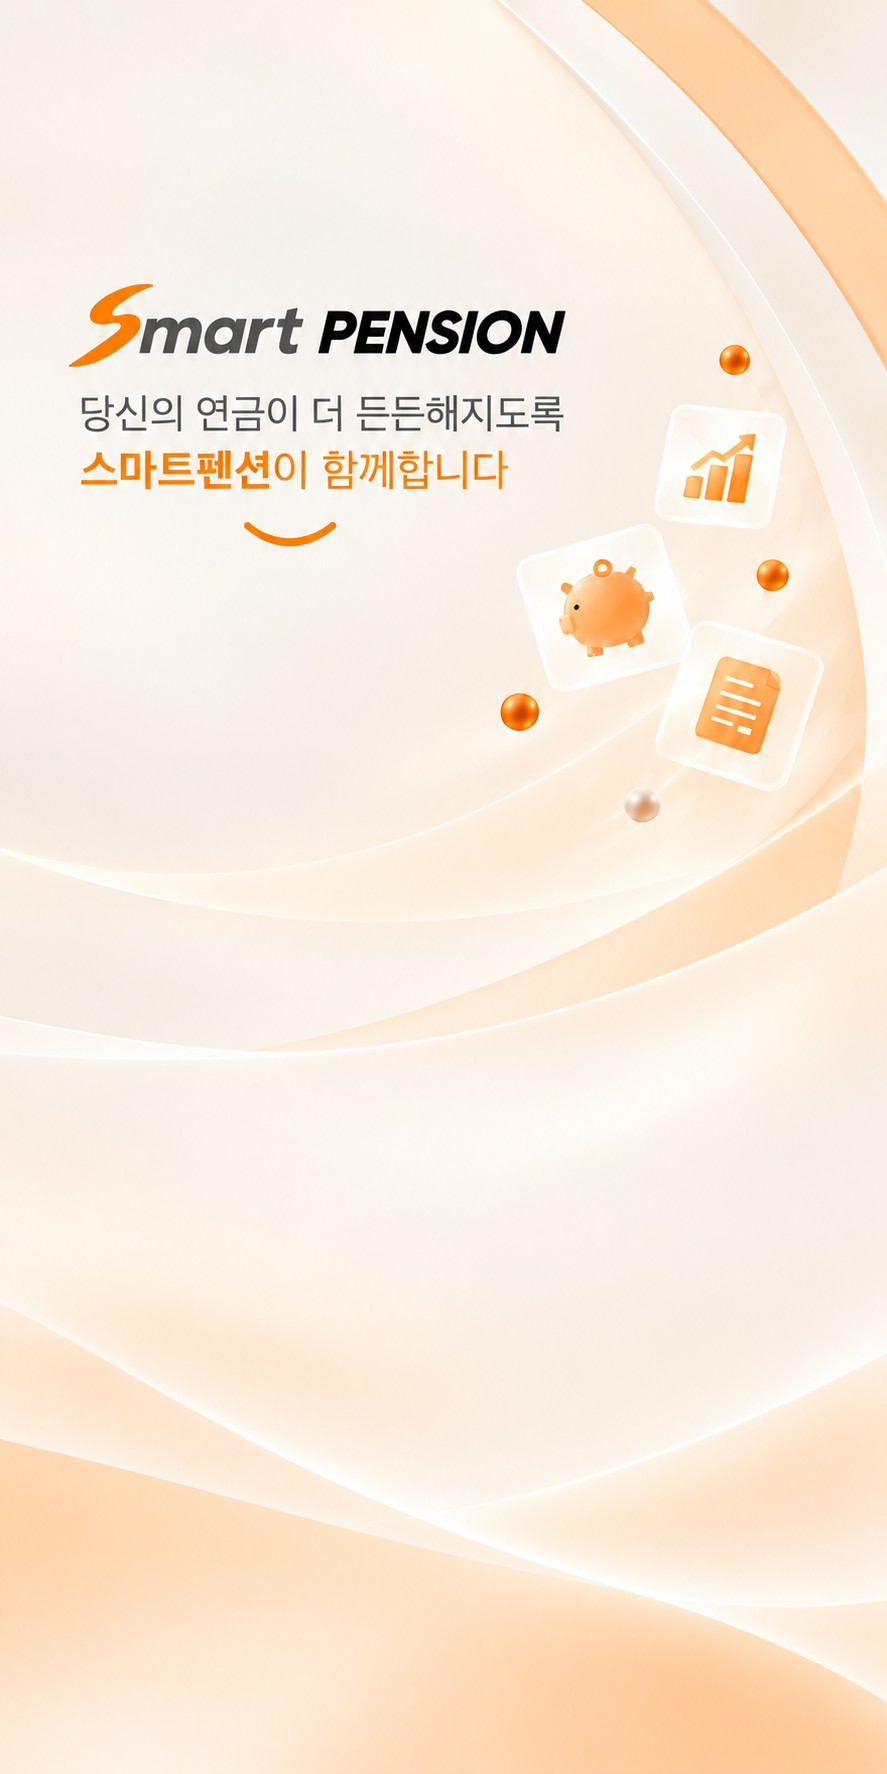
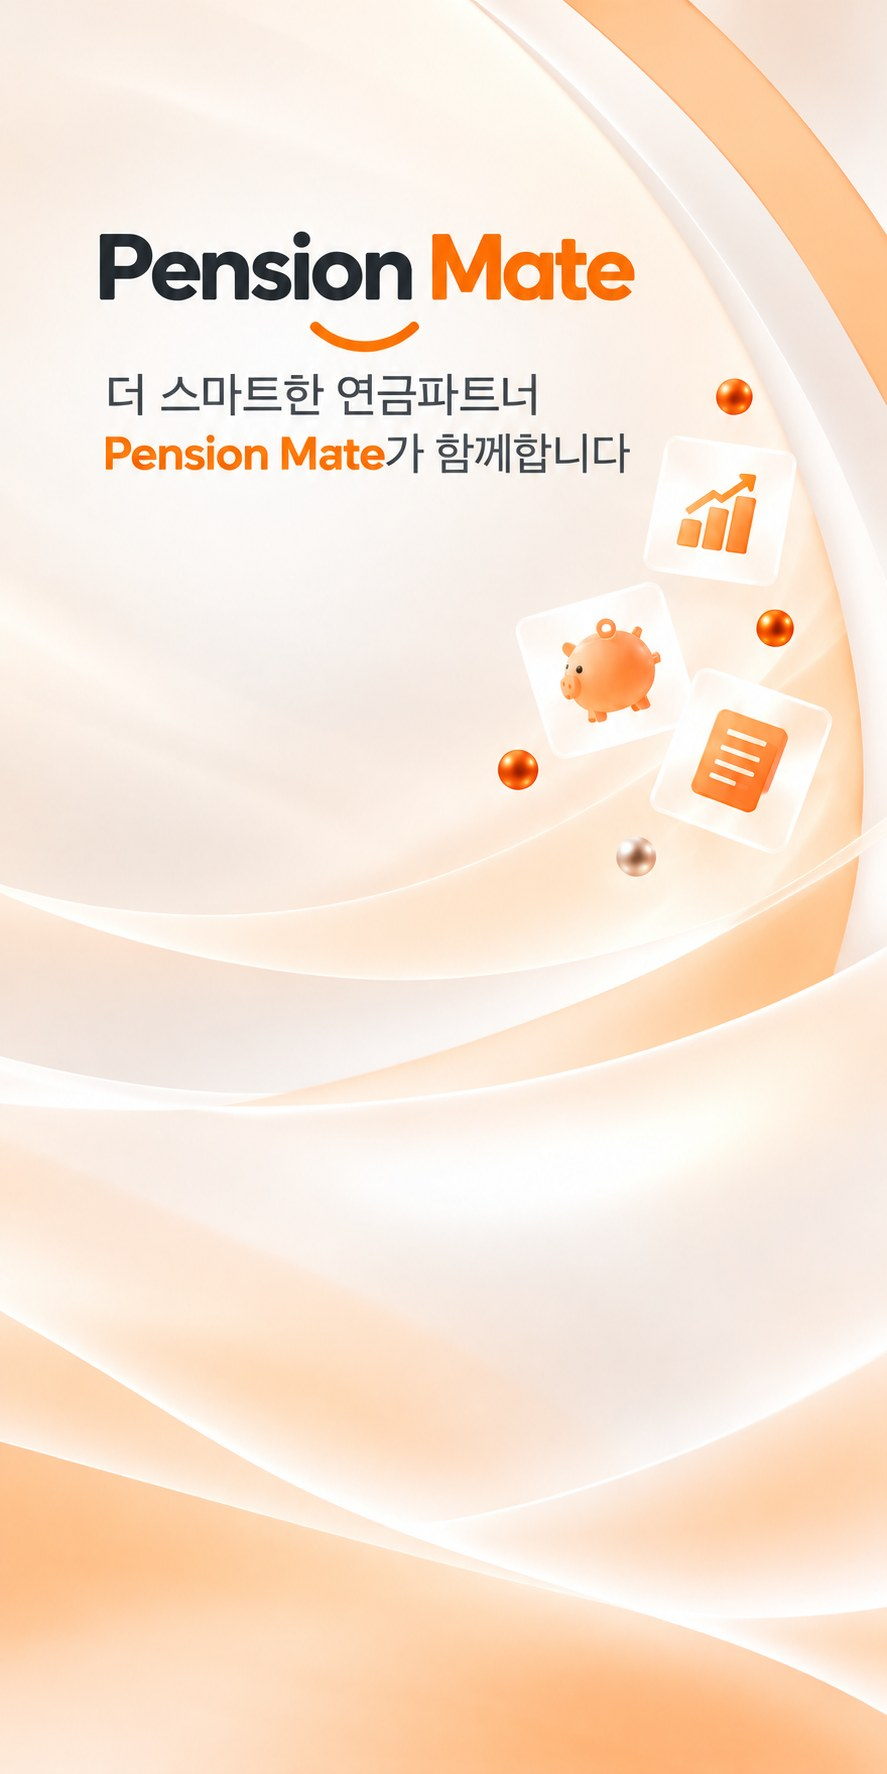
모바일 로그인 배경을 Pension Mate 이미지로 교체
로고·문구·아이콘이 로그인 카드에 가려지지 않도록 배경 위치(-20vw)와
상단 영역 높이(82vw)를 조정하고 캐시 버전을 v=4로 올림.

Claude-Session: https://claude.ai/code/session_01V2UCprx1xJBiqwCWT7WUTo

diff --git a/templates/login.html b/templates/login.html
@@ -9,10 +9,11 @@ if (window.top !== window) { try { window.top.location.href = location.href; } c
 <style>
 *,*::before,*::after{box-sizing:border-box;margin:0;padding:0}
 body{font-family:'Malgun Gothic','맑은 고딕',-apple-system,BlinkMacSystemFont,sans-serif;color:#222;
-     min-height:100vh;background:#FCD4B0 url('/static/images/login_bg.jpg?v=3') no-repeat center -18vw;background-size:100% auto}
+     min-height:100vh;background:#FCD4B0 url('/static/images/login_bg.jpg?v=4') no-repeat center -20vw;background-size:100% auto}
 .lg-wrap{min-height:100vh;min-height:100dvh;max-width:480px;margin:0 auto;display:flex;flex-direction:column}
 /* 상단: 로고 + 타이틀 (모바일은 배경 이미지에 로고·문구가 포함되어 있어 글자는 화면에서 숨기고 자리만 확보) */
-.lg-top{padding:40px 28px 0;min-height:74vw;box-sizing:border-box}
+/* 배경 그림(로고·문구·아이콘)이 카드에 가려지지 않도록 그림 하단(아이콘·구슬)까지 높이 확보 */
+.lg-top{padding:40px 28px 0;min-height:82vw;box-sizing:border-box}
 .lg-top .lg-logo,.lg-top .lg-title,.lg-top .lg-sub{position:absolute;width:1px;height:1px;overflow:hidden;clip:rect(0 0 0 0);white-space:nowrap}
 .lg-logo{height:30px;width:auto;display:block;margin-bottom:20px}
 .lg-title{font-size:1.4rem;font-weight:800;color:#1a1a1a;letter-spacing:-.5px;line-height:1.3}
